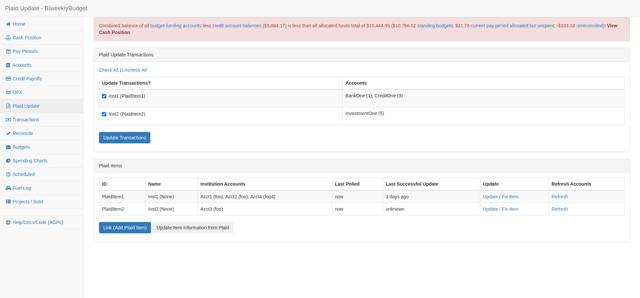
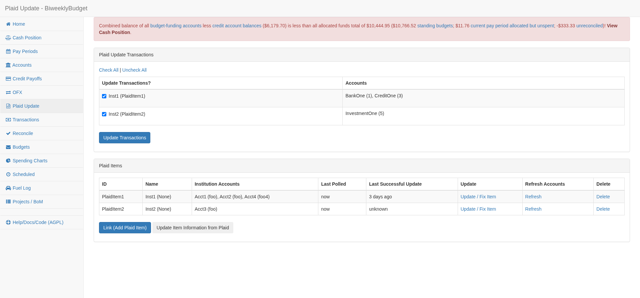
Plaid Delete Item - M3.1: Cover the real Plaid call and document deletion (issue #269)
End-to-end coverage, documentation and regenerated doc artifacts for the Delete
action added in M1.1.

tests/acceptance/test_plaidlink.py gains test_20_delete_item and
test_21_verify_item_deleted at the end of the incremental sandbox run. This is
the only place the real Plaid item_remove call is exercised: the acceptance
suite cannot reach Plaid (test_settings carries dummy credentials pointing at
the real sandbox host), so making it POST the endpoint would tie it to outbound
network and to Plaid's availability. The new steps delete the linked Item
through the UI, then assert both Plaid tables are empty, that Accounts 1 and 3
still exist with their Plaid columns cleared, and that the OFXStatement and
OFXTransaction counts are unchanged. Note this class is xfailed when CI is
true, for an unrelated reason (Plaid's Link iframe does not work in headless
Chrome), so these steps are local signal rather than CI signal.

Cross-test state goes in a new class-level `counts` dict, because pytest builds
a fresh instance per test method; `self.x = ...` in one test would not be
visible in the next. This is the same reason plaid_accts is a class attribute.

docs/source/plaid.rst gains a "Deleting a Plaid Item" section under Usage, and
its "Changing Plaid Environments" steps 1-2 - the raw
"UPDATE accounts SET plaid_item_id=NULL..." and
"DELETE FROM plaid_accounts; DELETE FROM plaid_items;" this feature replaces -
now say to delete each Item through the UI, and to do it BEFORE changing
[…]

diff --git a/biweeklybudget/tests/acceptance/test_plaidlink.py b/biweeklybudget/tests/acceptance/test_plaidlink.py
@@ -81,6 +81,9 @@ class TestLinkAndUpdateSimple(AcceptanceHelper):
 
     plaid_accts = {}
     plaid_acct_ids = []
+    # pytest builds a new instance per test method, so cross-test state
+    # must live in a mutable class attribute, as plaid_accts does
+    counts = {}
 
     def test_00_clean_transactions_and_setup(self, testdb):
         for stmt in [
@@ -596,3 +599,52 @@ class TestLinkAndUpdateSimple(AcceptanceHelper):
             self.plaid_accts['checking']['item_id']
         ).last_updated
         assert new_updated > orig_updated
+
+    def test_20_delete_item(self, base_url, selenium, testdb):
+        """
+        Delete the linked Item through the UI. This is the only test that
+        exercises the real Plaid ``item_remove`` call.
+        """
+        item_id = self.plaid_accts['checking']['item_id']
+        assert len(testdb.query(PlaidItem).all()) == 1
+        self.counts['ofx_statements'] = len(
+            testdb.query(OFXStatement).all()
+        )
+        self.counts['ofx_trans'] = len(testdb.query(OFXTransaction).all())
+        self.get(selenium, base_url + '/plaid-update')
+        self.wait_for_load_complete(selenium)
+        self.wait_for_jquery_done(selenium)
+        selenium.find_element(By.ID, 'plaid_delete_' + item_id).click()
+        WebDriverWait(selenium, 10).until(
+            EC.visibility_of_element_located((By.ID, 'modalDiv'))
+        )
+        body = selenium.find_element(By.ID, 'modalBody').text
+        assert 'First Platypus Bank' in body
+        assert 'cannot be undone' in body
+        # both Accounts linked in test_05 are named
+        for name in ['BankOne', 'CreditOne']:
+            assert name in body
+        selenium.find_element(By.ID, 'modalSaveButton').click()
+        # the page reloads on success; wait for the now-empty Items table
+        WebDriverWait(selenium, 30).until(
+            lambda d: d.find_elements(
+                By.CSS_SELECTOR, '#table-items-plaid tbody tr'
+            ) == []
+        )
+
+    def test_21_verify_item_deleted(self, testdb):
+        testdb.expire_all()
+        assert testdb.query(PlaidItem).all() == []
+        assert testdb.query(PlaidAccount).all() == []
+        # the Accounts survive, un-linked, with their history intact
+        for acct_id in [1, 3]:
+            acct: Account = testdb.query(Account).get(acct_id)
+            assert acct is not None
+            assert acct.plaid_item_id is None
+            assert acct.plaid_account_id is None
+        assert len(
+            testdb.query(OFXStatement).all()
+        ) == self.counts['ofx_statements']
+        assert len(
+            testdb.query(OFXTransaction).all()
+        ) == self.counts['ofx_trans']

diff --git a/docs/make_screenshots.py b/docs/make_screenshots.py
@@ -288,7 +288,10 @@ class Screenshotter(object):
                            'updated that Item\'s transactions from the '
                            'institution ("Last Successful Update"), which '
                            'reads "unknown" if Plaid has reported no '
-                           'successful update.'
+                           'successful update. Each Item can also be deleted '
+                           'from here, which removes it at Plaid as well and '
+                           'un-links any Accounts that were using it, after '
+                           'a confirmation naming those Accounts.'
         },
         {
             'path': '/accounts/1',

diff --git a/specs/20260916-062828-plaid-delete-item/tasks.md b/specs/20260916-062828-plaid-delete-item/tasks.md
@@ -125,12 +125,12 @@ round trip proven by unit tests and the confirmation proven by acceptance tests.
 **Purpose**: Prove the real Plaid call works, and stop the documentation recommending the raw
 SQL this feature replaces.
 
-- [ ] T028 [P] [US2] Append delete steps to the incremental sandbox class in `biweeklybudget/tests/acceptance/test_plaidlink.py` — delete the linked Item through the UI after `test_19_update_transactions`, then assert `plaid_items` and `plaid_accounts` are empty, that the previously linked Accounts still exist with `plaid_item_id`/`plaid_account_id` `None`, and that their `OFXTransaction`/`OFXStatement` rows are unchanged in number
-- [ ] T029 [P] Add a `.. _plaid.deleting:` "Deleting a Plaid Item" subsection to `docs/source/plaid.rst` after "Linking Accounts to Plaid", describing the UI steps, what the confirmation shows, that the Item is removed at Plaid, that Accounts are unlinked but keep their data, and that the action cannot be undone
-- [ ] T030 Rewrite steps 1-2 of `.. _plaid.change-env:` ("Changing Plaid Environments") in `docs/source/plaid.rst` to delete each Item through the UI instead of running `UPDATE accounts SET plaid_item_id=NULL...` and `DELETE FROM plaid_accounts; DELETE FROM plaid_items;`, and say explicitly that Items must be deleted **before** `PLAID_ENV`/`PLAID_SECRET` change — noting that an Item stranded by an already-completed switch is still deletable, because Plaid's `INVALID_ACCESS_TOKEN` counts as already-removed ([research.md](./research.md) R2)
-- [ ] T031 Extend the `/plaid-update` entry's `description` in `docs/make_screenshots.py` to mention the Delete action; do **not** hand-edit `docs/source/screenshots.rst`, which that script generates
-- [ ] T032 Regenerate `docs/source/jsdoc.plaid_prod.rst` with `tox -e jsdoc` using jsdoc **4.0.4** from a scratch prefix on `PATH` (the system 3.6.3 deletes every committed `jsdoc.*.rst` and then fails); commit only `jsdoc.plaid_prod.rst` and revert any unrelated `jsdoc.*.rst` the run rewrites
-- [ ] T033 Regenerate the Plaid Update screenshots with `tox -e screenshots`; commit only `docs/source/plaid-update.png`, `docs/source/plaid-update_sm.png` and the `screenshots.rst` change this feature's caption produces, reverting the unrelated drift the generator introduces. Never run `docs` while `screenshots` is running
+- [X] T028 [P] [US2] Append delete steps to the incremental sandbox class in `biweeklybudget/tests/acceptance/test_plaidlink.py` — delete the linked Item through the UI after `test_19_update_transactions`, then assert `plaid_items` and `plaid_accounts` are empty, that the previously linked Accounts still exist with `plaid_item_id`/`plaid_account_id` `None`, and that their `OFXTransaction`/`OFXStatement` rows are unchanged in number
+- [X] T029 [P] Add a `.. _plaid.deleting:` "Deleting a Plaid Item" subsection to `docs/source/plaid.rst` after "Linking Accounts to Plaid", describing the UI steps, what the confirmation shows, that the Item is removed at Plaid, that Accounts are unlinked but keep their data, and that the action cannot be undone
+- [X] T030 Rewrite steps 1-2 of `.. _plaid.change-env:` ("Changing Plaid Environments") in `docs/source/plaid.rst` to delete each Item through the UI instead of running `UPDATE accounts SET plaid_item_id=NULL...` and `DELETE FROM plaid_accounts; DELETE FROM plaid_items;`, and say explicitly that Items must be deleted **before** `PLAID_ENV`/`PLAID_SECRET` change — noting that an Item stranded by an already-completed switch is still deletable, because Plaid's `INVALID_ACCESS_TOKEN` counts as already-removed ([research.md](./research.md) R2)
+- [X] T031 Extend the `/plaid-update` entry's `description` in `docs/make_screenshots.py` to mention the Delete action; do **not** hand-edit `docs/source/screenshots.rst`, which that script generates
+- [X] T032 Regenerate `docs/source/jsdoc.plaid_prod.rst` with `tox -e jsdoc` using jsdoc **4.0.4** from a scratch prefix on `PATH` (the system 3.6.3 deletes every committed `jsdoc.*.rst` and then fails); commit only `jsdoc.plaid_prod.rst` and revert any unrelated `jsdoc.*.rst` the run rewrites
+- [X] T033 Regenerate the Plaid Update screenshots with `tox -e screenshots`; commit only `docs/source/plaid-update.png`, `docs/source/plaid-update_sm.png` and the `screenshots.rst` change this feature's caption produces, reverting the unrelated drift the generator introduces. Never run `docs` while `screenshots` is running
 
 **Checkpoint (Milestone M3)**: The real Plaid round trip is covered, and no documentation still
 tells the maintainer to delete Plaid rows by hand.

diff --git a/docs/source/plaid.rst b/docs/source/plaid.rst
@@ -46,6 +46,22 @@ Linking Accounts to Plaid
 6. In the Edit Account modal, scroll to the bottom and select the appropriate Item and Account in the "Plaid Account" dropdown.
 7. Click "Save changes".
 
+.. _plaid.deleting:
+
+Deleting a Plaid Item
++++++++++++++++++++++
+
+1. Click the "Plaid Update" link in the left navigation menu.
+2. In the "Plaid Items" table, click the "Delete" link in the row for the Item you want to remove.
+3. A confirmation dialog names the Item and lists the Accounts that will no longer be linked to Plaid. Read it; this cannot be undone.
+4. Click "Delete" in the dialog to go ahead, or "Close" to change your mind. Nothing is sent to the server unless you click "Delete".
+
+Deleting an Item asks Plaid to remove it, which invalidates its access token and closes the institution connection, and then removes the Item and its Plaid Accounts from biweeklybudget. Any Account that was linked to one of those Plaid Accounts is simply un-linked from Plaid: the Account itself, along with all of its transactions, statements, balances and reconciliations, is left exactly as it was, and you can link it to a different Plaid Item afterwards. Transactions already downloaded through the deleted Item are **not** removed; only future downloads stop.
+
+Plaid is asked first, on purpose. If Plaid refuses - because it cannot be reached, or your credentials are wrong - nothing at all is deleted and the error is shown, so you can fix the problem and try again. The one case that does *not* stop the deletion is Plaid reporting that the Item no longer exists or that its access token is no longer valid; that Item is already gone as far as Plaid is concerned, so it is removed from biweeklybudget as well. This is what lets you clear out Items left behind by a change of Plaid environment (see :ref:`plaid.change-env`).
+
+To use the same financial institution again, link it from scratch as described in :ref:`plaid.linking`.
+
 .. _plaid.update-ui:
 
 Updating Transactions via UI
@@ -140,7 +156,7 @@ It may be necessary to change Plaid environments, such as if you started using t
 
 Also **note** that Plaid ``transaction_id`` (our ``fitid``) _will_ change between environments. As such, you should update transactions in the old environment immediately before switching environments, then update transactions in the new environment, and you will need to manually ignore any transactions that are duplicates.
 
-1. Un-associate all of your Accounts from Plaid Accounts. This can be done manually via the Account edit modal or by running the following SQL query directly against the database: ``UPDATE accounts SET plaid_item_id=NULL, plaid_account_id=NULL;``
-2. Delete all of your Plaid Accounts and Plaid Items from the database: ``DELETE FROM plaid_accounts; DELETE FROM plaid_items;``
+1. **Before** changing any settings, delete each of your Plaid Items as described in :ref:`plaid.deleting`. Do this first: once ``PLAID_ENV`` or ``PLAID_SECRET`` has changed, the old Items' access tokens are no longer valid for your new credentials, so they can no longer be removed at Plaid. Deleting an Item also un-links the Accounts that were using it, so there is nothing to un-associate by hand.
+2. If you have already changed environments and are left with Items you cannot remove at Plaid, delete them through the UI anyway: Plaid will report their access tokens as invalid, and biweeklybudget treats that as the Item already being gone and removes it from the database.
 3. Update your configuration / environment variables for the new ``PLAID_ENV`` that you want to use and your ``PLAID_SECRET`` for that environment.
 4. Re-link all of your Plaid items, and then re-associate them with your Accounts.

diff --git a/docs/source/jsdoc.plaid_prod.rst b/docs/source/jsdoc.plaid_prod.rst
@@ -3,6 +3,26 @@ jsdoc.plaid\_prod
 
 File: ``biweeklybudget/flaskapp/static/js/plaid_prod.js``
 
+.. js:function:: ..........e(item_id)
+
+   Call the /ajax/plaid/delete_item endpoint and then reload this page. On
+   failure, show the server's message and leave the page alone, since nothing
+   was deleted.
+
+   :param item\_id: the Plaid Item ID to delete.
+   :type item\_id: **string**
+.. js:function:: .................m(item_id, institution_name, account_names)
+
+   Show the confirmation modal for deleting a Plaid Item. Makes no request of
+   its own; the deletion happens in :js:func:`plaidDelete`, called when the
+   modal's Delete button is clicked.
+
+   :param item\_id: the Plaid Item ID to delete.
+   :param institution\_name: the Item's institution name, for display.
+   :param account\_names: comma-separated "Name (id)" for each Account linked to this Item, or an empty string if none are.
+   :type item\_id: **string**
+   :type institution\_name: **string**
+   :type account\_names: **string**
 .. js:function:: ........k()
 
    Initiate a Plaid link. Perform the link process and retrieve a public token;

diff --git a/docs/source/screenshots.rst b/docs/source/screenshots.rst
@@ -114,7 +114,7 @@ Shows downloaded transactions (retrieved via Plaid).
 Plaid Update
 ------------
 
-Link financial institutions through Plaid, and choose which Plaid Items to retrieve transactions and balances for. The Plaid Items table shows both when biweeklybudget last polled each Item ("Last Polled") and when Plaid itself last successfully updated that Item's transactions from the institution ("Last Successful Update"), which reads "unknown" if Plaid has reported no successful update.
+Link financial institutions through Plaid, and choose which Plaid Items to retrieve transactions and balances for. The Plaid Items table shows both when biweeklybudget last polled each Item ("Last Polled") and when Plaid itself last successfully updated that Item's transactions from the institution ("Last Successful Update"), which reads "unknown" if Plaid has reported no successful update. Each Item can also be deleted from here, which removes it at Plaid as well and un-links any Accounts that were using it, after a confirmation naming those Accounts.
 
 .. image:: plaid-update_sm.png
    :target: plaid-update.png
